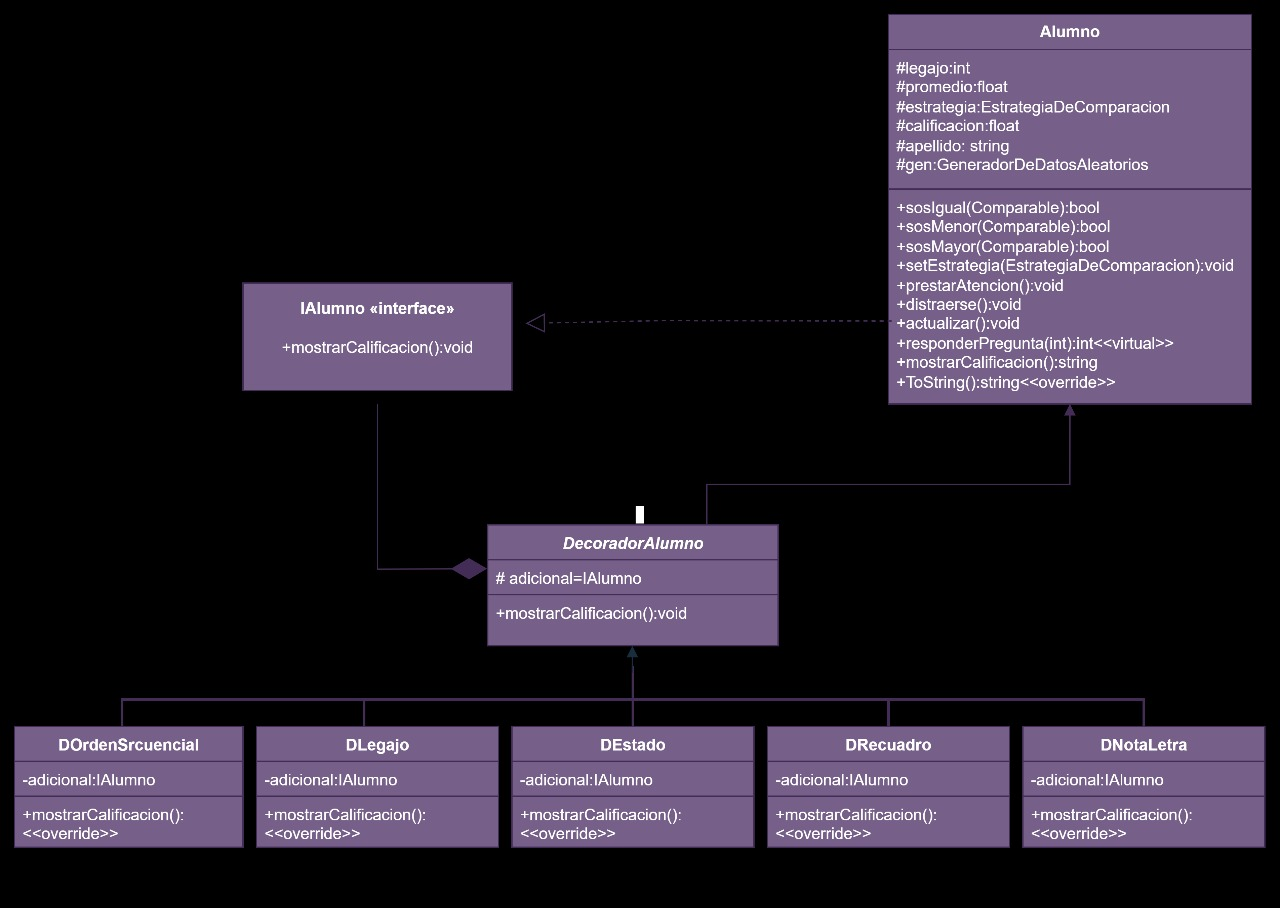
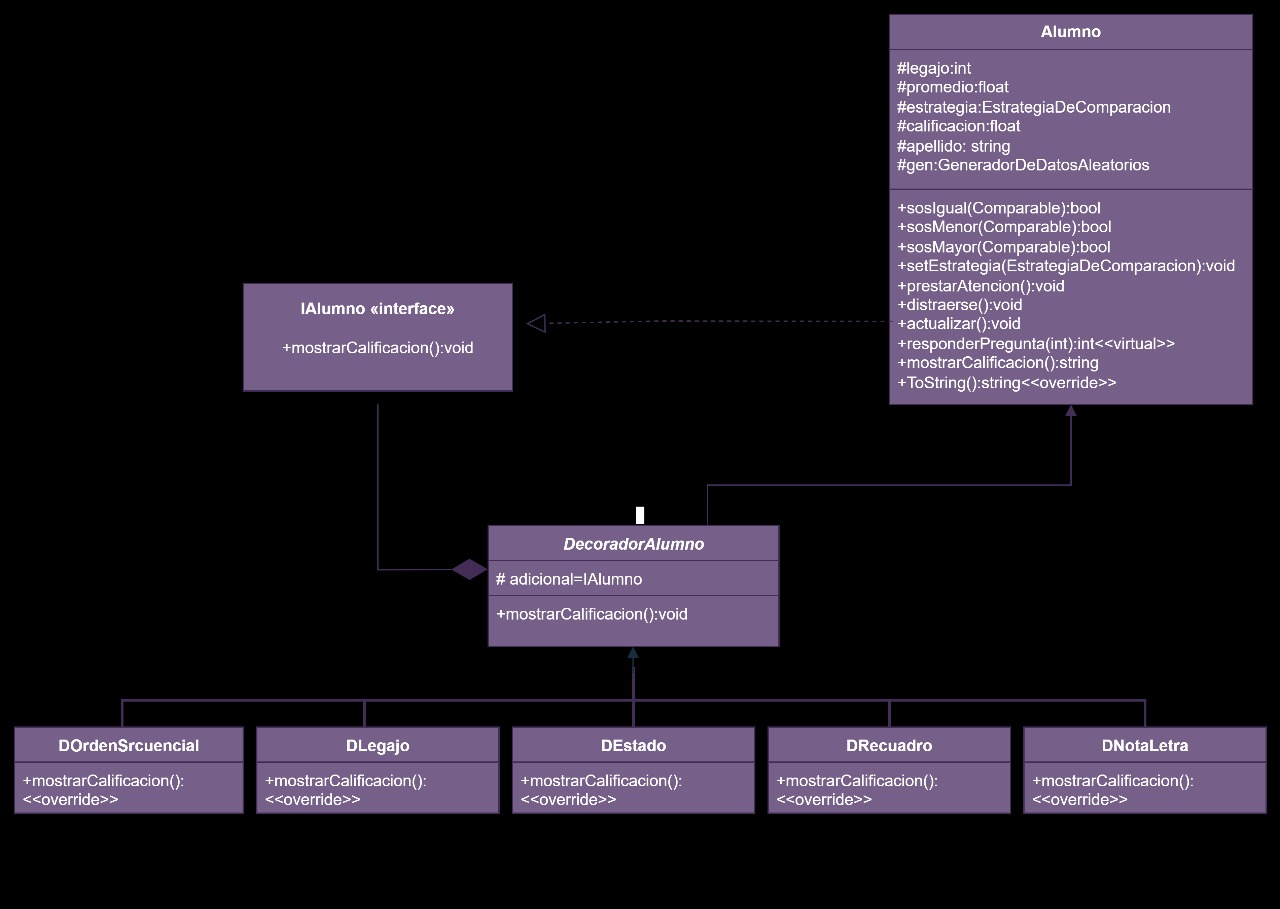
Implemente la subclaseDLegajo  y corregi UML

diff --git a/ConsoleApp1/obj/Debug/net9.0/ConsoleApp1.AssemblyInfo.cs b/ConsoleApp1/obj/Debug/net9.0/ConsoleApp1.AssemblyInfo.cs
@@ -13,7 +13,7 @@ using System.Reflection;
 [assembly: System.Reflection.AssemblyCompanyAttribute("ConsoleApp1")]
 [assembly: System.Reflection.AssemblyConfigurationAttribute("Debug")]
 [assembly: System.Reflection.AssemblyFileVersionAttribute("1.0.0.0")]
-[assembly: System.Reflection.AssemblyInformationalVersionAttribute("1.0.0+c055c20d02af27ffcf11740485aaf6b3b1da512d")]
+[assembly: System.Reflection.AssemblyInformationalVersionAttribute("1.0.0+ade39203c0c00e95025cd9e5e21e70ad99c0a292")]
 [assembly: System.Reflection.AssemblyProductAttribute("ConsoleApp1")]
 [assembly: System.Reflection.AssemblyTitleAttribute("ConsoleApp1")]
 [assembly: System.Reflection.AssemblyVersionAttribute("1.0.0.0")]

diff --git a/ConsoleApp1/DEstado.cs b/ConsoleApp1/DEstado.cs
@@ -1,0 +1,19 @@
+using System;
+
+namespace ConsoleApp1
+{
+    public class DEstado:DecoradorAlumno
+    {
+        //mantengo adicional desde la instancia anterior
+        public DEstado(IAlumno adicional):base(adicional){ }
+        //Un decorado que imprima el legajo: Ratón Pérez (12345/6) 6 etsa raro
+        public String mostrarCalificacion()
+        {
+            //comportamiento base
+            string calificacion = base.mostrarCalificacion();
+            //componente adicional
+            return string.Format("{0} ({1})", calificacion, ((Alumno)adicional).Legajo); // nombre apellido calificacion y legajo
+        }
+
+    }
+}

diff --git a/ConsoleApp1/DLegajo.cs b/ConsoleApp1/DLegajo.cs
@@ -1,0 +1,19 @@
+using System;
+
+namespace ConsoleApp1
+{
+    public class DLegajo:DecoradorAlumno
+    {
+        //mantengo adicional desde la instancia anterior
+        public DLegajo(IAlumno adicional):base(adicional){ }
+        //Un decorado que imprima el legajo: Ratón Pérez (12345/6) 6 etsa raro
+        public String mostrarCalificacion()
+        {
+            //comportamiento base
+            string calificacion = base.mostrarCalificacion();
+            //componente adicional
+            return string.Format("{0} ({1})", calificacion, ((Alumno)adicional).Legajo); // nombre apellido calificacion y legajo
+        }
+
+    }
+}

diff --git a/ConsoleApp1/DecoradorAlumnoi.cs b/ConsoleApp1/DecoradorAlumnoi.cs
@@ -1,0 +1,22 @@
+using System;
+using System.Reflection;
+namespace ConsoleApp1
+{
+    public abstract class DecoradorAlumno : IAlumno
+    {
+        //a
+        protected IAlumno adicional;
+        //constructor
+        public DecoradorAlumno(IAlumno  adicional)
+        {
+            this.adicional = adicional;
+        }
+        //met
+        public virtual string mostrarCalificacion()
+        {
+            return adicional.mostrarCalificacion();
+        }
+
+        
+    }
+}

diff --git a/ConsoleApp1/IAlumno.cs b/ConsoleApp1/IAlumno.cs
@@ -1,9 +1,9 @@
 using System;
 namespace ConsoleApp1
 {
-    public interface IAlumno : Comparable
+    public interface IAlumno 
     {
-        public void setEstrategia();
+
         public string mostrarCalificacion();
     }
 }
